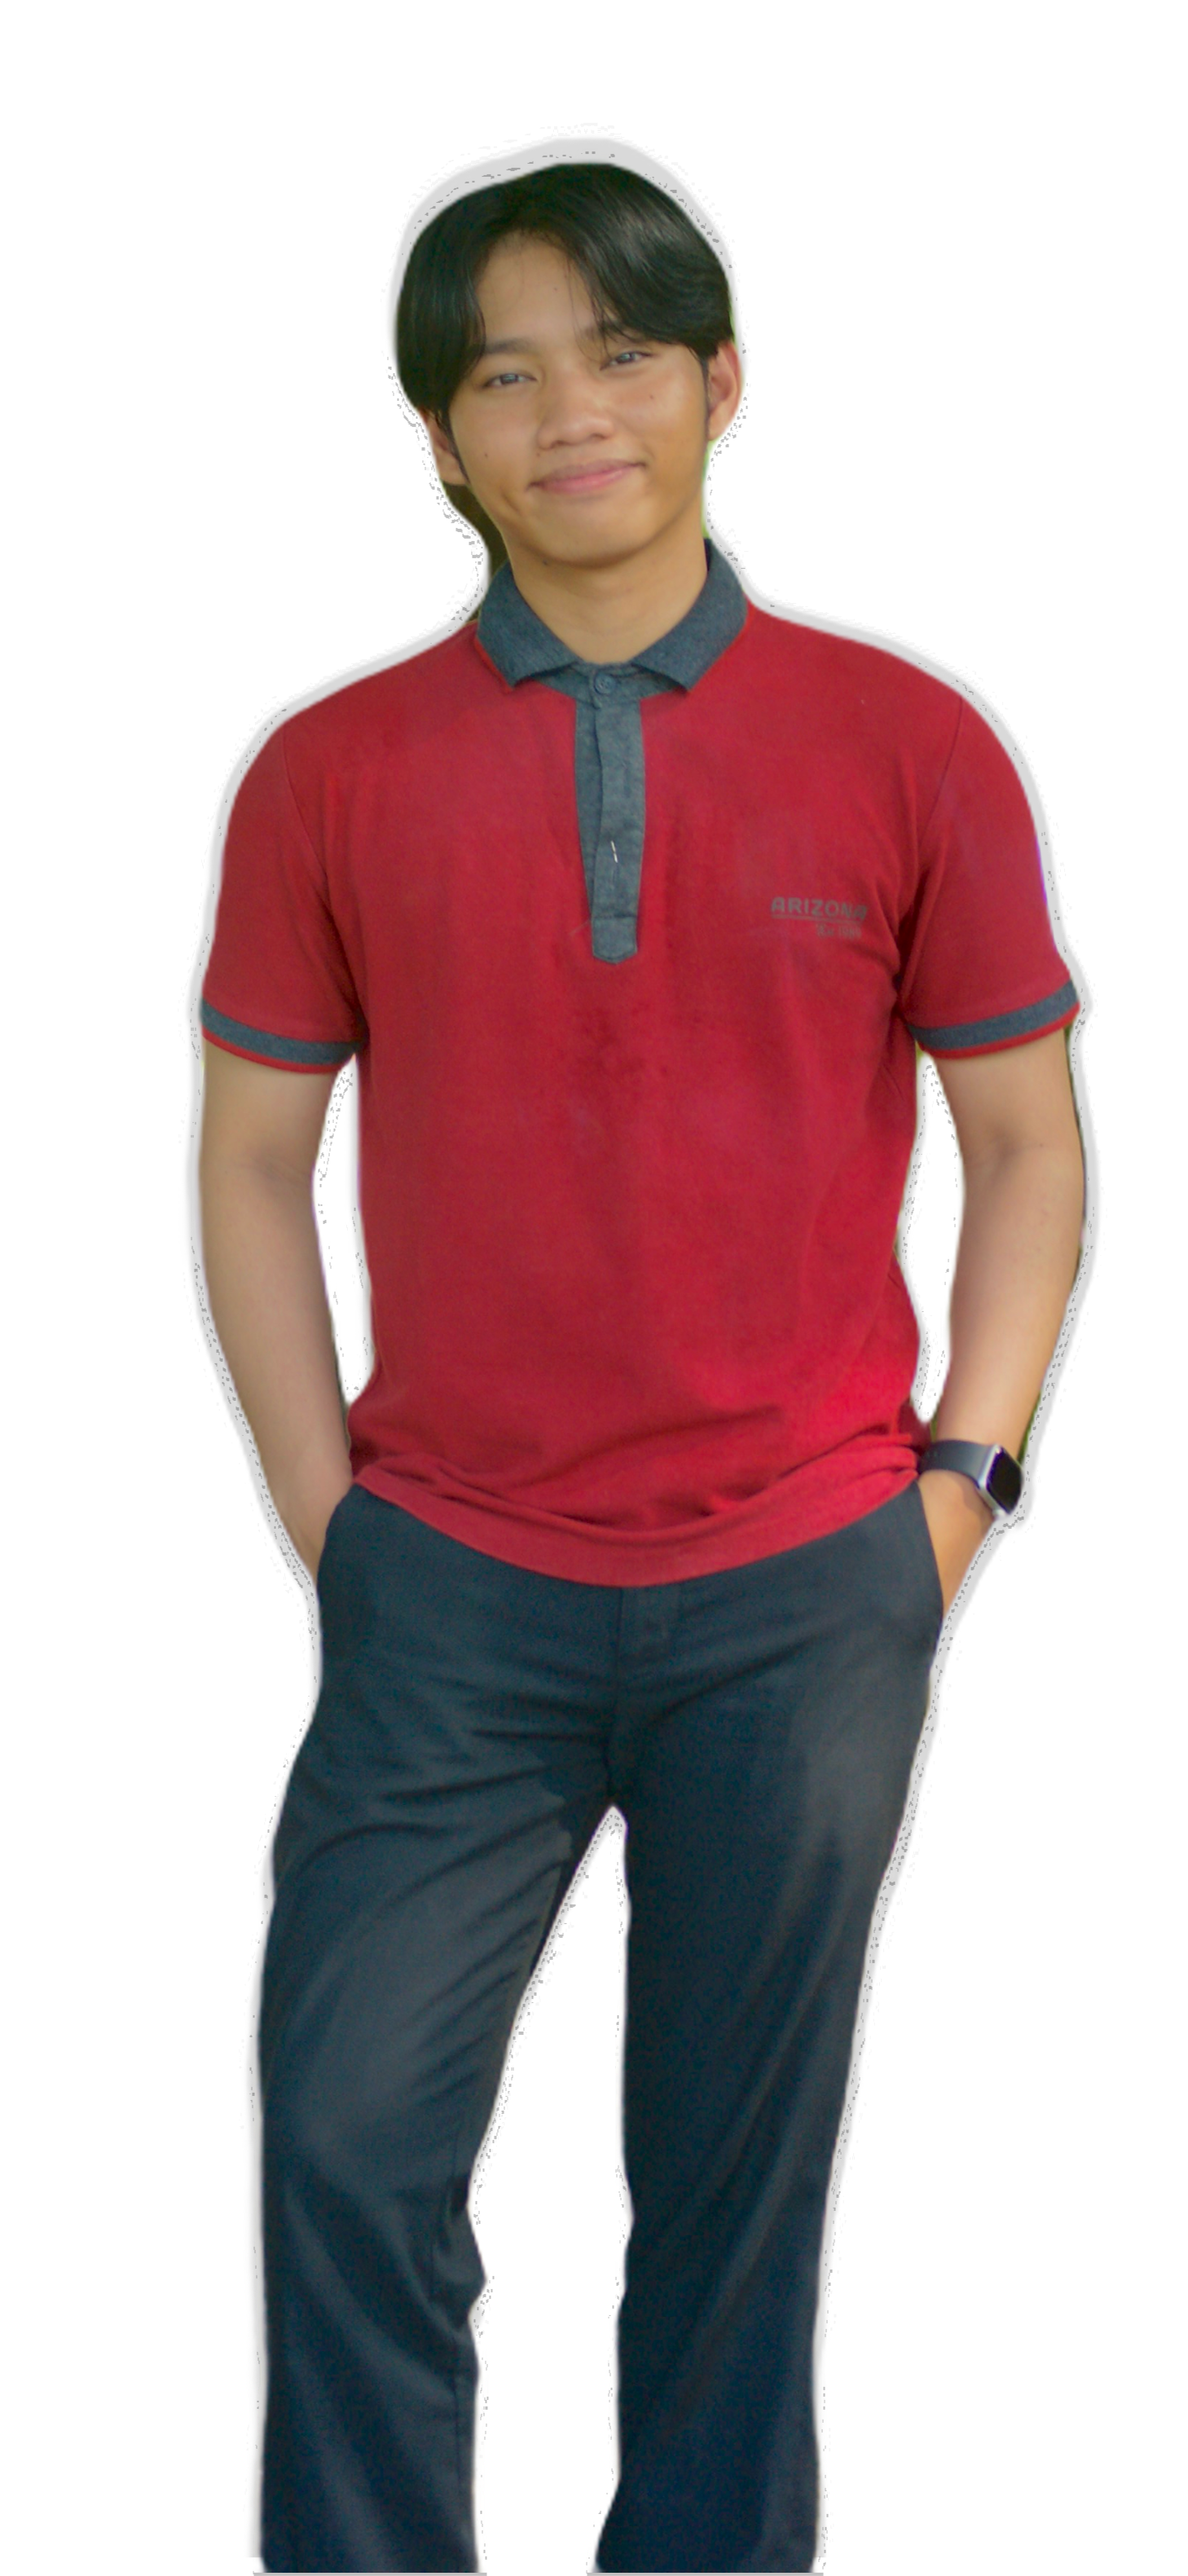
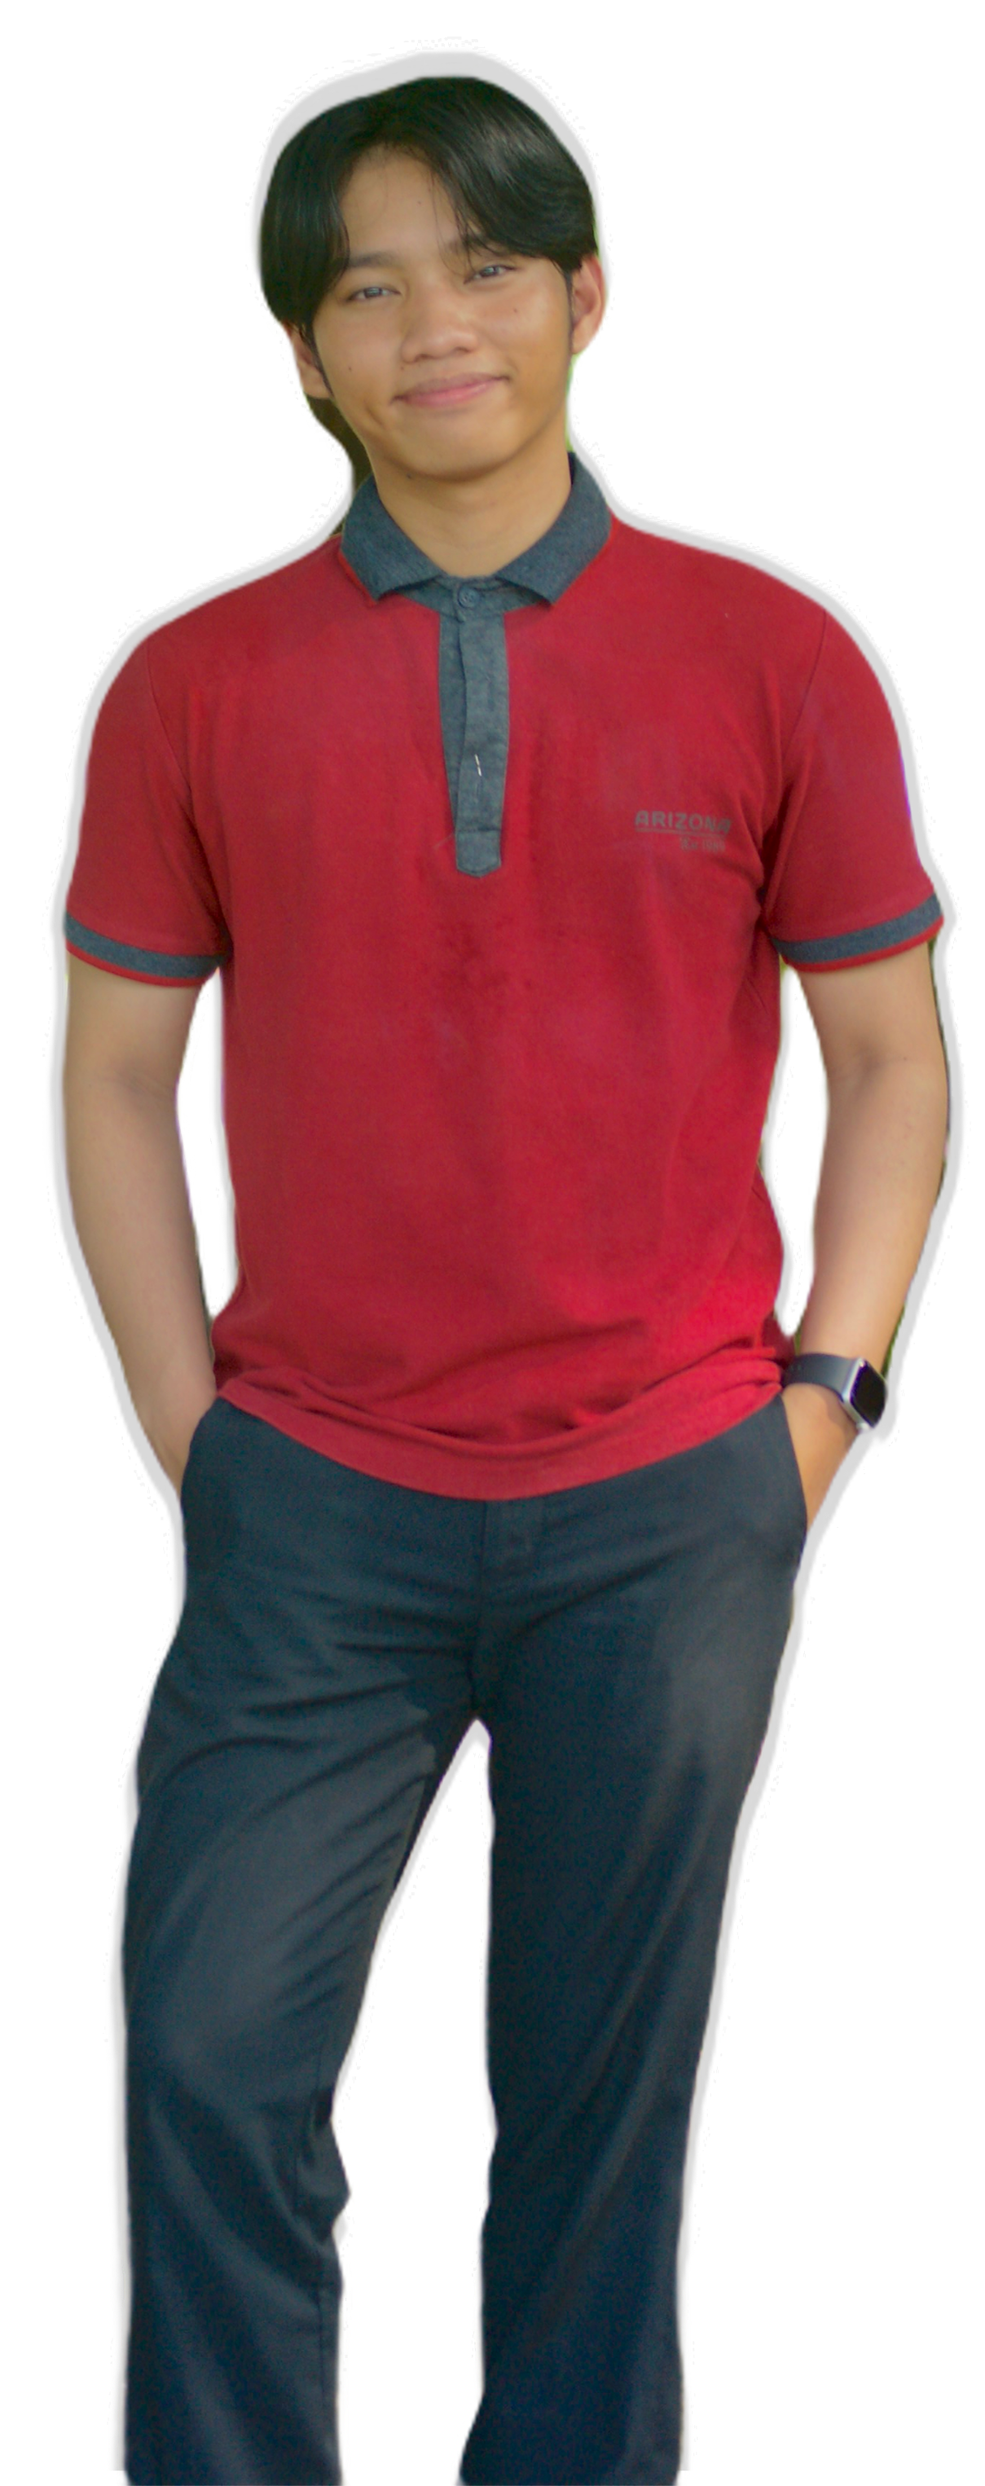
feat: align photo perfectly with boat deck and sail, add new profile image

diff --git a/src/style.css b/src/style.css
@@ -126,23 +126,25 @@ p {
 .profile-boat-group {
   position: relative;
   display: flex;
-  flex-direction: column;
-  align-items: center;
+  justify-content: center;
+  align-items: flex-end;
   animation: floatBoat 4s ease-in-out infinite;
   flex-shrink: 0;
+  width: 300px;
+  height: 400px;
 }
 
 /* Full-body photo wrapper — menempel tepat di atas deck perahu */
 .fullbody-wrapper {
-  position: relative;
+  position: absolute;
   z-index: 3;
-  margin-bottom: -55px; /* dorong lebih dalam agar kaki menyentuh deck */
+  bottom: 114px; /* Tepat menyentuh deck (tinggi SVG 270px, deck di y=52, sisanya 114px) */
   display: flex;
   justify-content: center;
 }
 
 .fullbody-photo {
-  height: 320px;           /* tinggi foto full-body */
+  height: 280px;           /* tinggi foto full-body disesuaikan dengan layar */
   width: auto;
   object-fit: contain;
   object-position: bottom; /* pastikan kaki tetap di bawah */
@@ -161,7 +163,8 @@ p {
 }
 
 .boat {
-  position: relative;
+  position: absolute;
+  bottom: 0;
   z-index: 2;
   filter: drop-shadow(0 20px 16px rgba(0,0,0,0.2));
 }
